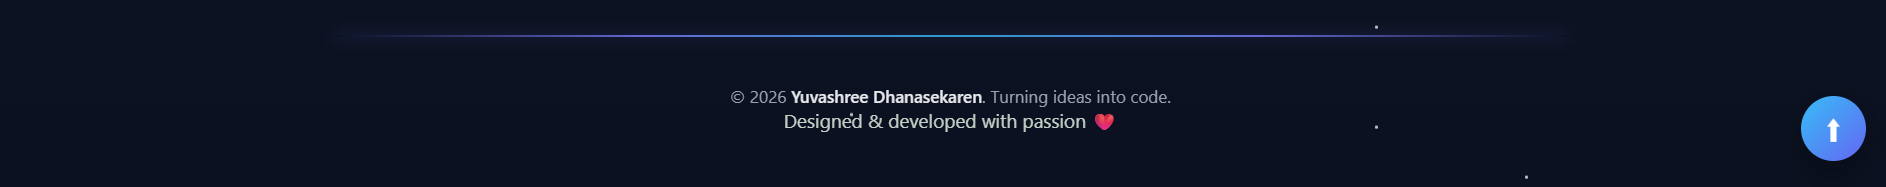
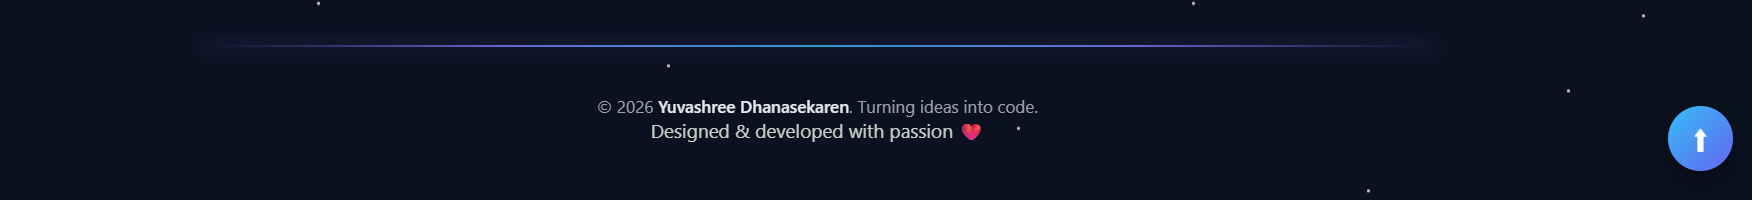
Added Footer Content & README Preview

diff --git a/README.md b/README.md
@@ -345,6 +345,22 @@ The section is designed to make professional communication simple and accessible
 <img src="assets/portfolio_outputs/contact.png" width="700" alt="Contact">
 
 ---
+# 🔻 Footer
+
+The Footer appears at the bottom of every page, giving the portfolio a consistent closing touch.
+
+It includes:
+
+* Copyright with current year
+* Name and tagline
+* "Designed & developed with passion" note
+* Scroll-to-top button
+
+### Footer Preview
+
+<img src="assets/portfolio_outputs/footer.png" width="700" alt="Footer">
+
+---
 
 # 🎯 Portfolio Goals
 
